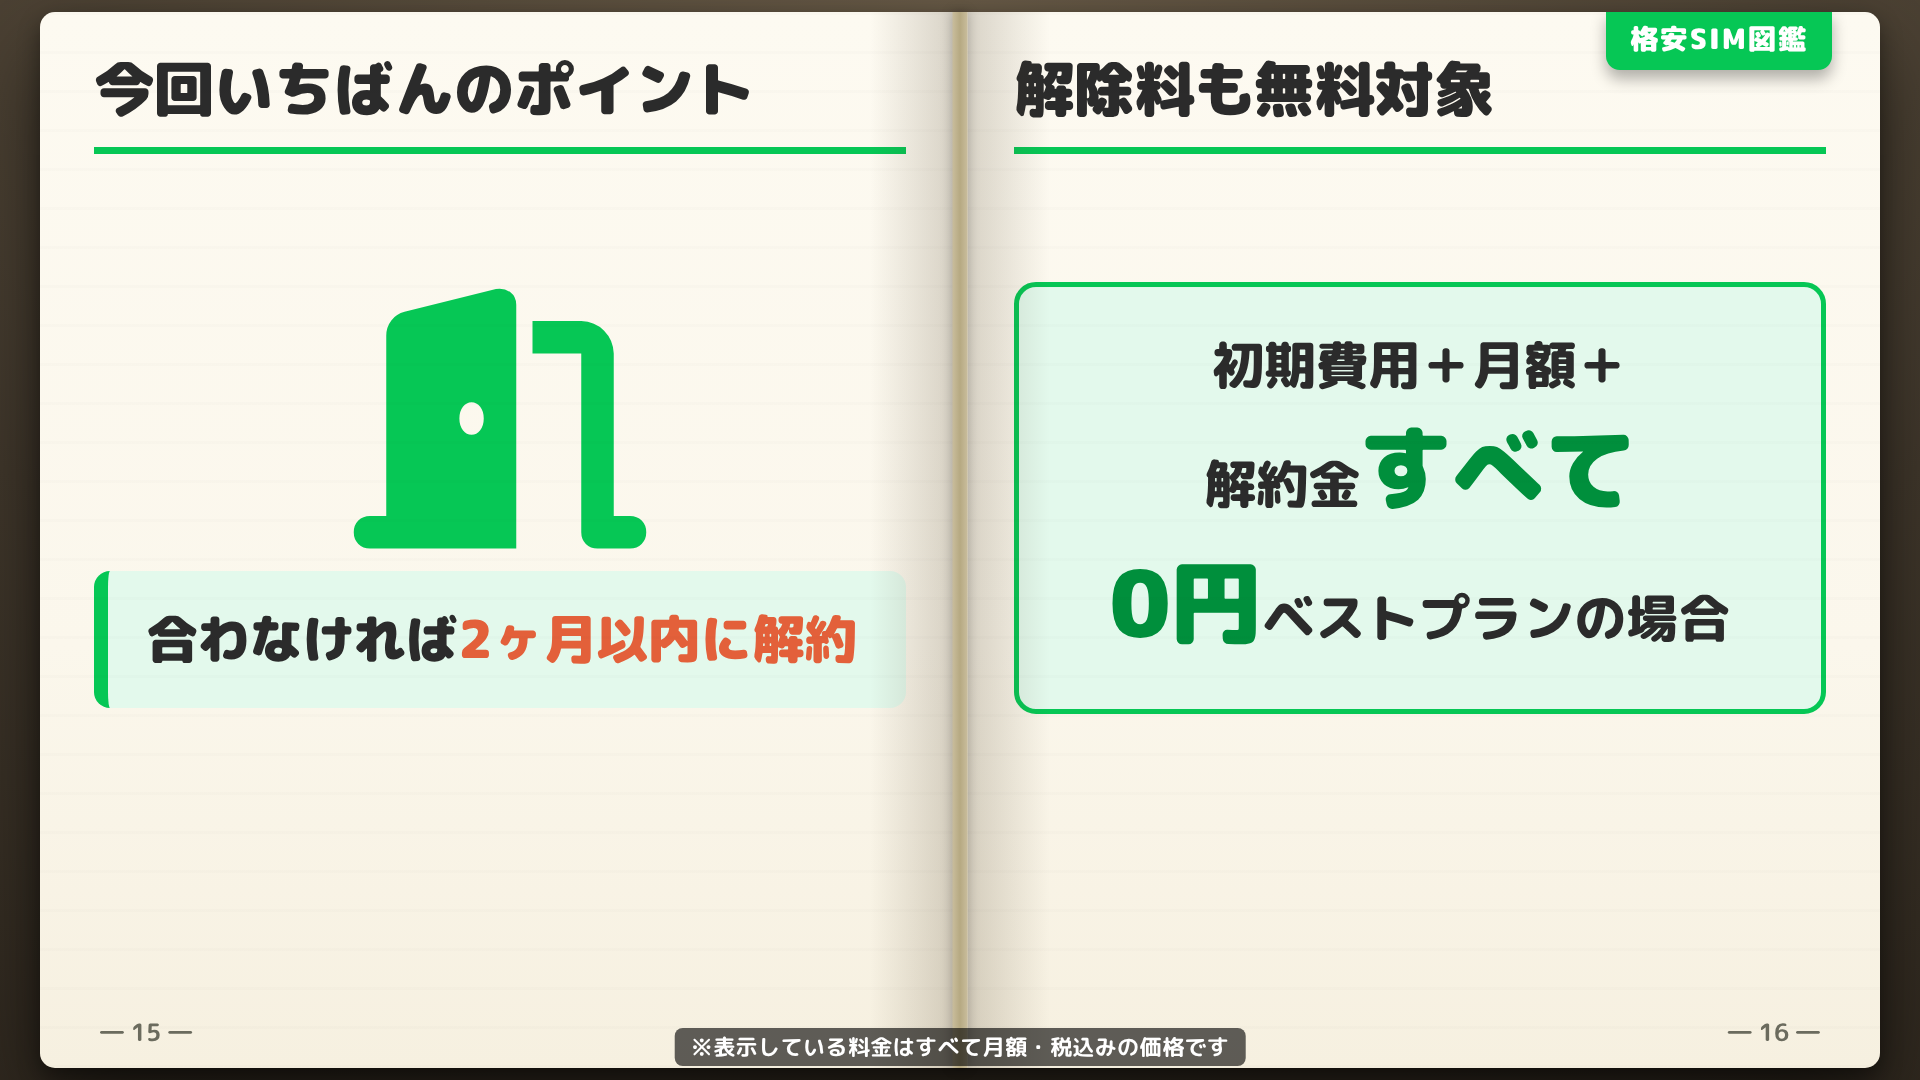
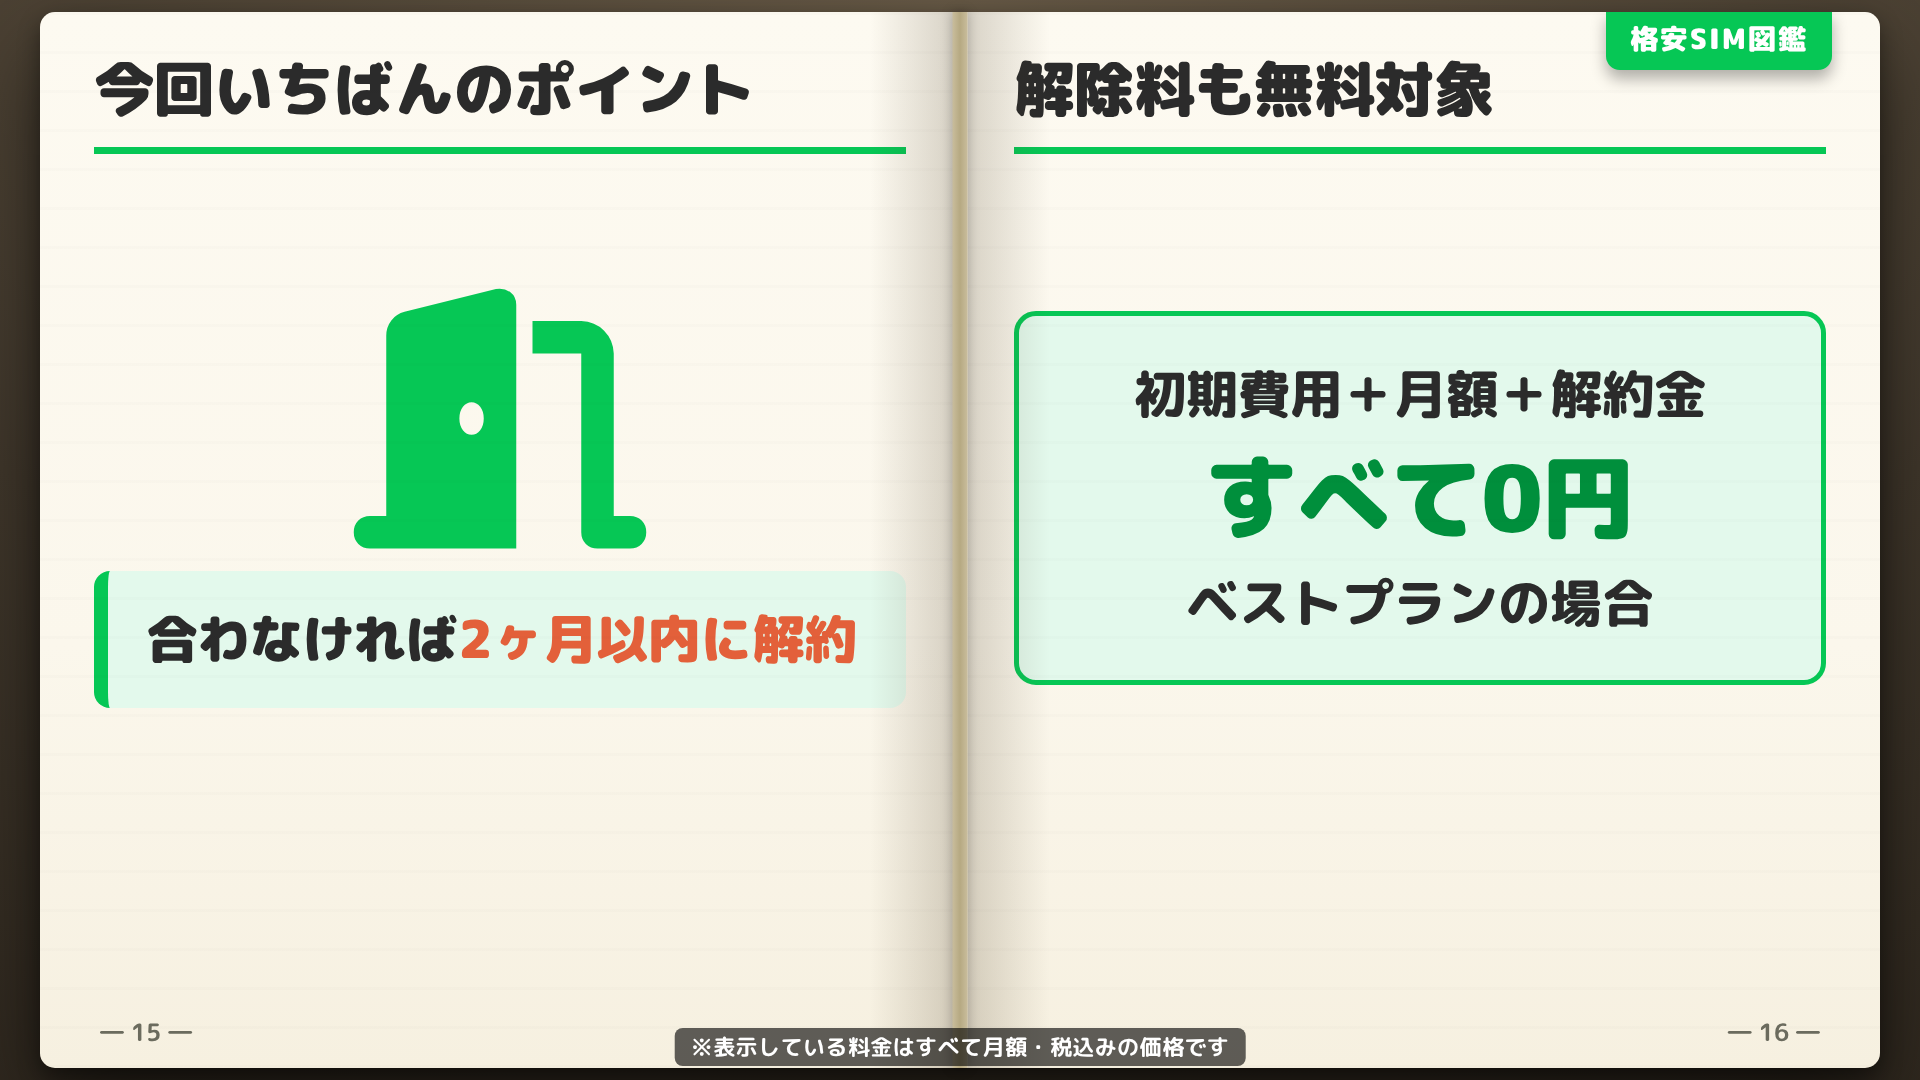
スライド改修

Changed region(s): [[0.5312, 0.2444, 0.9688, 0.6722]]

diff --git a/slides.html b/slides.html
@@ -502,7 +502,7 @@
       <div class="page right"><span class="index-tab">格安SIM図鑑</span>
         <div class="page-head">解除料も無料対象</div>
         <div class="page-body center">
-          <div class="emph">初期費用＋月額＋解約金<span class="big">すべて0円</span>ベストプランの場合</div>
+          <div class="emph">初期費用＋月額＋解約金<br><span class="big">すべて0円</span><br>ベストプランの場合</div>
         </div><span class="page-no">― 16 ―</span>
       </div>
     </div>
@@ -747,7 +747,8 @@
             <div class="line con"><span class="tag">－</span>サポートは有料</div>
           </div>
         </div>
-        <div class="note eval-note-standalone">※本評価は当チャンネルの独断と偏見による独自評価であり、キャンペーン割引等は考慮していません</div><span class="page-no">― 28
+        <div class="note eval-note-standalone">※本評価は当チャンネルの独断と偏見による独自評価であり、キャンペーン割引等は考慮していません</div><span
+          class="page-no">― 28
           ―</span>
       </div>
     </div>
